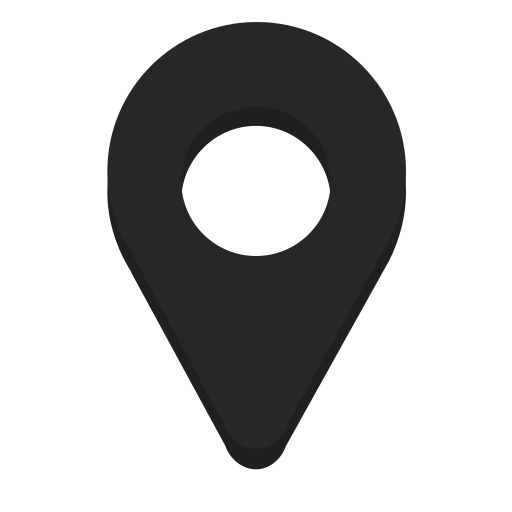
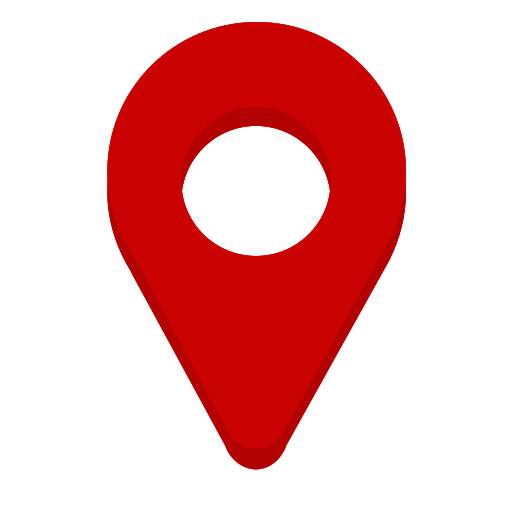
Add files via upload

Changed region(s): [[0.1875, 0.0312, 0.8125, 0.9375]]

diff --git a/skin.js b/skin.js
@@ -1,7 +1,7 @@
 // Garden Gnome Software - Skin
 // Pano2VR 6.1.2/17873
 // Filename: Veracruz Parque Natura.ggsk
-// Generated 2026-04-16T20:40:53
+// Generated 2026-04-16T21:33:48
 
 function pano2vrSkin(player,base) {
 	player.addVariable('ht_ani', 2, true);
@@ -1309,7 +1309,7 @@ function pano2vrSkin(player,base) {
 		el=me._ht_node_image=document.createElement('div');
 		els=me._ht_node_image__img=document.createElement('img');
 		els.className='ggskin ggskin_svg';
[5 lines of base64/hex data omitted]
@@ -1408,7 +1408,7 @@ function pano2vrSkin(player,base) {
 		el=me._ht_node_image_visited=document.createElement('div');
 		els=me._ht_node_image_visited__img=document.createElement('img');
 		els.className='ggskin ggskin_svg';
[5 lines of base64/hex data omitted]
